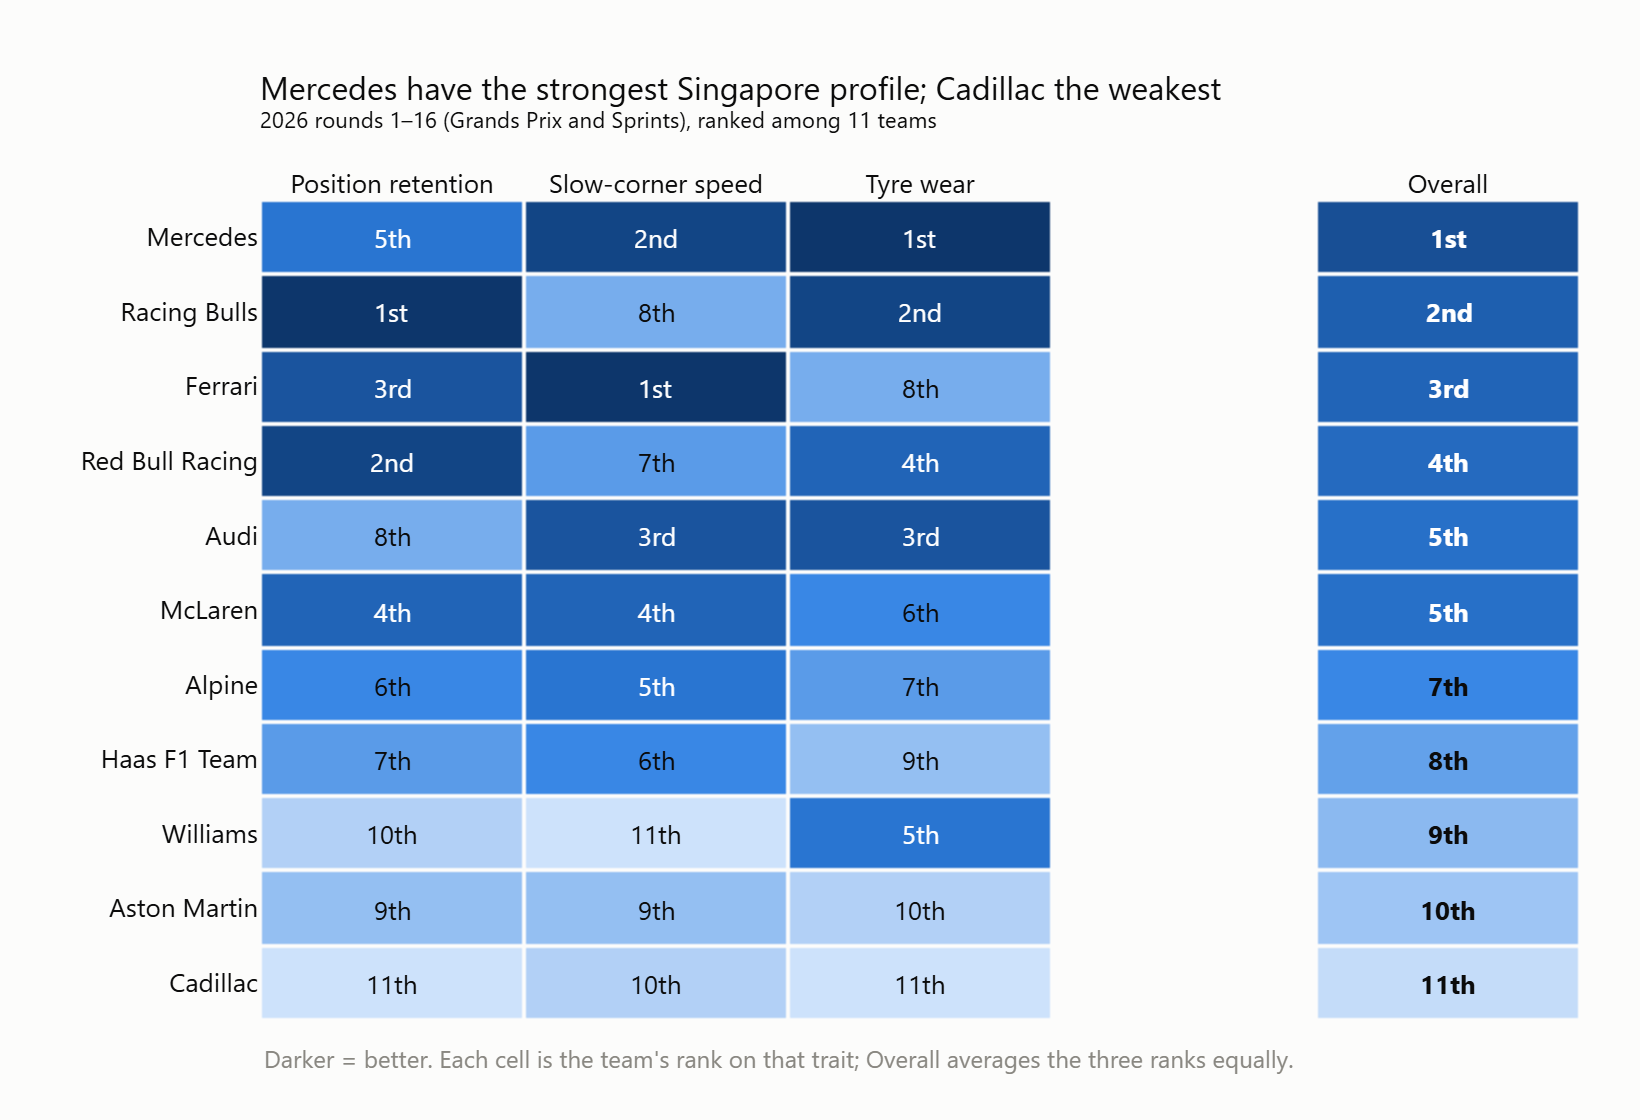
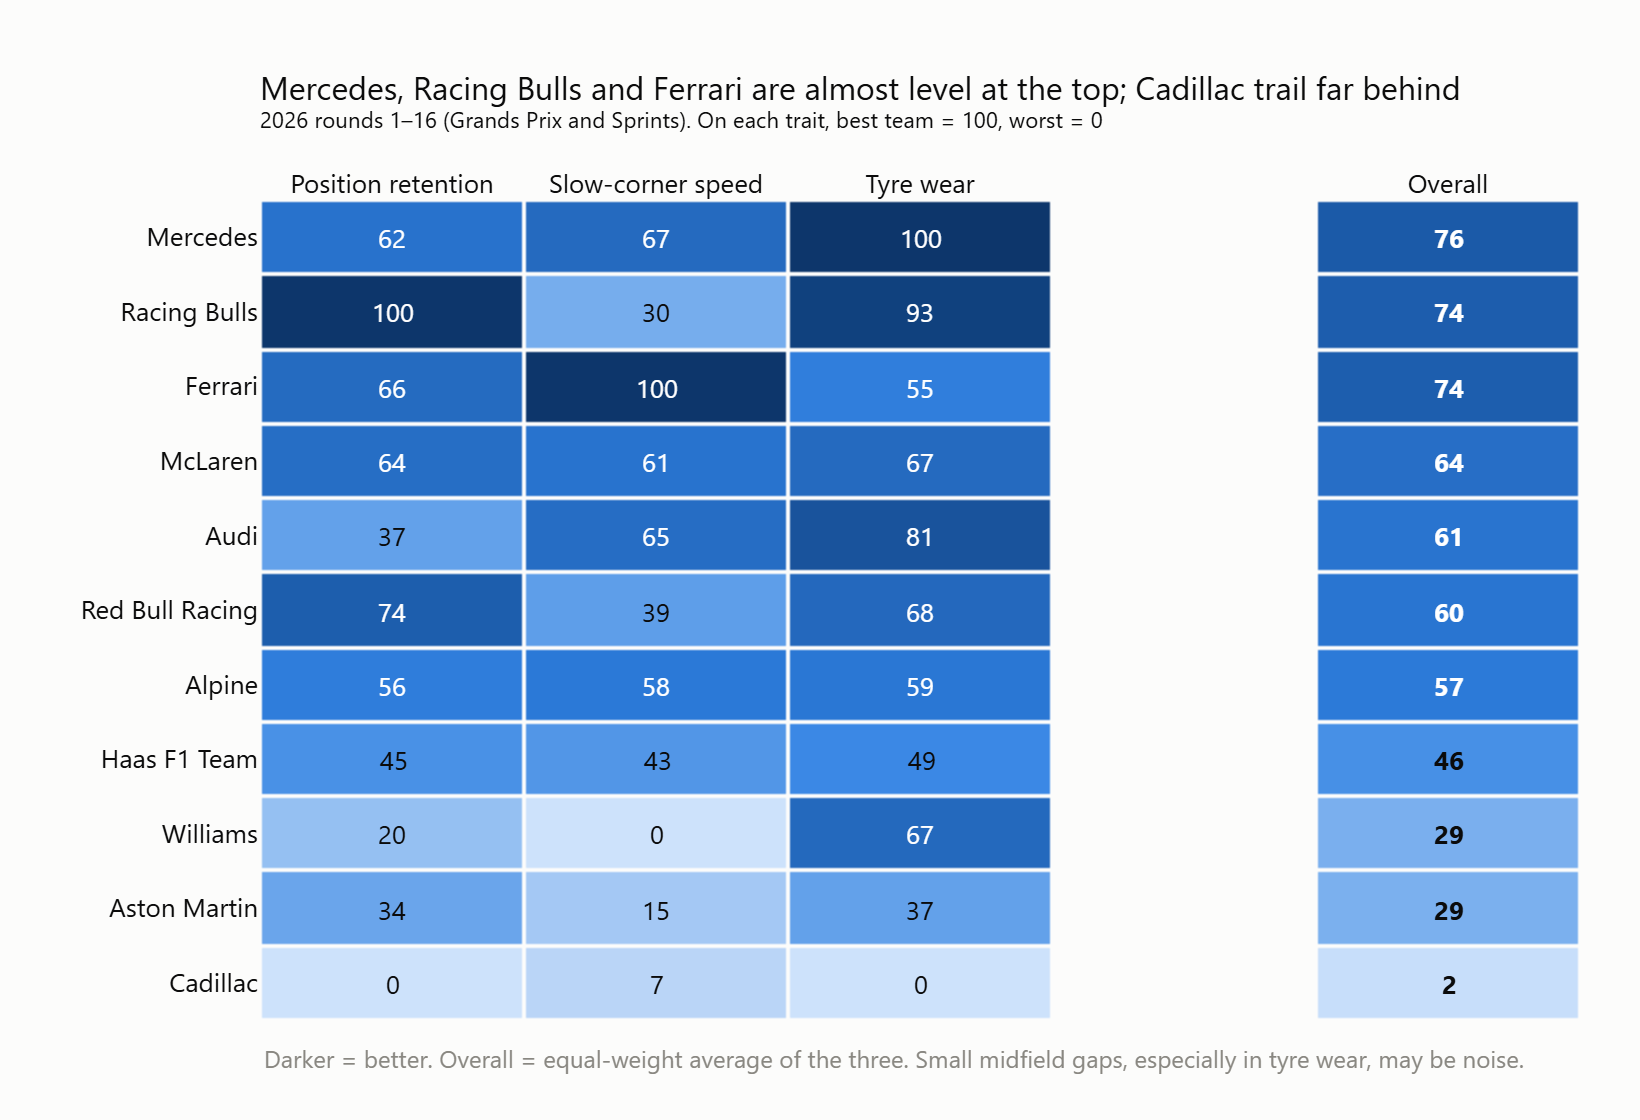
Switch scoring to min-max; update charts and METHOD

diff --git a/scripts/charts.py b/scripts/charts.py
@@ -1,6 +1,6 @@
 """The two published charts, built from outputs/scores.csv:
-  outputs/heatmap.{html,png}        teams x traits, cell shade = rank-based score
-  outputs/team_profiles.{html,png}  each team's rank on the three traits
+  outputs/heatmap.{html,png}        teams x traits, min-max score in each cell
+  outputs/team_profiles.{html,png}  each team's score on the three traits
 
 Usage: python scripts/score.py && python scripts/charts.py
 """
@@ -23,7 +23,7 @@ SERIES = {"Position retention": ("#2a78d6", "circle"),   # categorical slots 1-3
           "Tyre wear": ("#1baf7a", "square")}            # secondary encoding
 INK, INK_2, MUTED, GRID, AXIS, SURFACE = "#0b0b0b", "#52514e", "#898781", "#e1e0d9", "#c3c2b7", "#fcfcfb"
 FONT = 'system-ui, -apple-system, "Segoe UI", sans-serif'
-SUBTITLE = "2026 rounds 1–16 (Grands Prix and Sprints), ranked among 11 teams"
+SUBTITLE = "2026 rounds 1–16 (Grands Prix and Sprints). On each trait, best team = 100, worst = 0"
 
 
 def ordinal(n):
@@ -50,15 +50,15 @@ def heatmap(df):
                 zr.append(None); tr.append(""); hr.append("")
             elif c == "Overall":
                 zr.append(df.at[t, "Overall score"])
-                tr.append(f"<b>{ordinal(int(df.at[t, 'Overall rank']))}</b>")
-                hr.append(f"{t}<br>Overall: {ordinal(int(df.at[t, 'Overall rank']))}, "
-                          f"score {df.at[t, 'Overall score']:.0f} / 100")
+                tr.append(f"<b>{df.at[t, 'Overall score']:.0f}</b>")
+                hr.append(f"{t}<br>Overall: {df.at[t, 'Overall score']:.0f} / 100 "
+                          f"({ordinal(int(df.at[t, 'Overall rank']))})")
             else:
                 zr.append(df.at[t, f"{c} score"])
-                tr.append(ordinal(int(df.at[t, f"{c} rank"])))
-                hr.append(f"{t}<br>{c}: {ordinal(int(df.at[t, f'{c} rank']))}<br>"
+                tr.append(f"{df.at[t, f'{c} score']:.0f}")
+                hr.append(f"{t}<br>{c}: {df.at[t, f'{c} score']:.0f} / 100 "
+                          f"({ordinal(int(df.at[t, f'{c} rank']))})<br>"
                           f"{FMT[c].format(df.at[t, f'{c} raw'])} {UNITS[c]}")
-            pass
         z.append(zr); text.append(tr); hover.append(hr)
     n = len(BLUE_RAMP) - 1
     fig = go.Figure(go.Heatmap(
@@ -75,11 +75,11 @@ def heatmap(df):
                 fig.add_annotation(x=c, y=t, text=text[i][j], showarrow=False,
                                    font=dict(size=13, color="#ffffff" if v >= 55 else INK))
     fig.update_traces(texttemplate=None)
-    base_layout(fig, "Mercedes have the strongest Singapore profile; Cadillac the weakest", 560)
+    base_layout(fig, "Mercedes, Racing Bulls and Ferrari are almost level at the top; Cadillac trail far behind", 560)
     fig.update_xaxes(side="top", tickfont=dict(color=INK, size=13), showgrid=False)
     fig.update_yaxes(autorange="reversed", tickfont=dict(color=INK, size=13), showgrid=False)
-    fig.add_annotation(text="Darker = better. Each cell is the team's rank on that trait; "
-                            "Overall averages the three ranks equally.",
+    fig.add_annotation(text="Darker = better. Overall = equal-weight average of the three. "
+                            "Small midfield gaps, especially in tyre wear, may be noise.",
                        xref="paper", yref="paper", x=0, y=-0.07, showarrow=False, xanchor="left",
                        font=dict(color=MUTED, size=12))
     return fig
@@ -90,22 +90,24 @@ def team_profiles(df):
     ys = list(range(len(teams)))
     offset = {c: d for c, d in zip(TRAITS, (-0.27, 0, 0.27))}  # dodge so tied ranks don't hide each other
     fig = go.Figure()
-    # a hairline per team spanning its best to worst trait rank: long line = uneven profile
+    # a hairline per team spanning its weakest to strongest trait: long line = uneven profile
     for y, t in zip(ys, teams):
-        ranks = [df.at[t, f"{c} rank"] for c in TRAITS]
-        fig.add_trace(go.Scatter(x=[min(ranks), max(ranks)], y=[y, y], mode="lines",
+        vals = [df.at[t, f"{c} score"] for c in TRAITS]
+        fig.add_trace(go.Scatter(x=[min(vals), max(vals)], y=[y, y], mode="lines",
                                  line=dict(color=AXIS, width=2), hoverinfo="skip", showlegend=False))
     for c in TRAITS:
         color, symbol = SERIES[c]
         fig.add_trace(go.Scatter(
-            x=df[f"{c} rank"], y=[y + offset[c] for y in ys], mode="markers", name=c,
+            x=df[f"{c} score"], y=[y + offset[c] for y in ys], mode="markers", name=c,
             marker=dict(size=11, color=color, symbol=symbol, line=dict(width=2, color=SURFACE)),
-            customdata=[[t, FMT[c].format(df.at[t, f"{c} raw"])] for t in teams],
-            hovertemplate=f"%{{customdata[0]}}<br>{c}: rank %{{x}}<br>%{{customdata[1]}} {UNITS[c]}<extra></extra>"))
-    base_layout(fig, "Only Mercedes rank in the top 5 on all three traits", 680)
+            customdata=[[t, FMT[c].format(df.at[t, f"{c} raw"]), ordinal(int(df.at[t, f"{c} rank"]))]
+                        for t in teams],
+            hovertemplate=f"%{{customdata[0]}}<br>{c}: %{{x:.0f}} / 100 (%{{customdata[2]}})"
+                          f"<br>%{{customdata[1]}} {UNITS[c]}<extra></extra>"))
+    base_layout(fig, "Most leading teams have one weak trait; Mercedes and McLaren are the all-rounders", 680)
     fig.update_layout(legend=dict(orientation="h", yanchor="bottom", y=1.0, x=0, font=dict(color=INK_2)),
                       margin=dict(t=120))
-    fig.update_xaxes(title="Rank among 11 teams (1 = best)", range=[0.5, 11.5], dtick=1,
+    fig.update_xaxes(title="Score (0 = worst team on that trait, 100 = best)", range=[-4, 104], dtick=20,
                      gridcolor=GRID, linecolor=AXIS, zeroline=False)
     fig.update_yaxes(autorange="reversed", tickfont=dict(color=INK, size=13), showgrid=False,
                      tickmode="array", tickvals=ys, ticktext=teams, zeroline=False)

diff --git a/scripts/score.py b/scripts/score.py
@@ -1,6 +1,6 @@
-"""Team scores: each metric's raw value, rank (1 = best) and rank-based score
-(1st = 100 ... 11th = 0), plus the overall score (equal-weight mean of the
-three). Writes outputs/scores.csv.
+"""Team scores: each metric's raw value, rank (1 = best) and min-max score
+(best team = 100, worst = 0, others in proportion), plus the overall score
+(equal-weight mean of the three). Writes outputs/scores.csv.
 
 Usage: python scripts/score.py
 """
@@ -31,9 +31,10 @@ def scores():
     for name, get in METRICS.items():
         raw, higher_better = get()
         rank = raw.rank(ascending=not higher_better, method="min").astype(int)
+        oriented = raw if higher_better else -raw
         cols[(name, "raw")] = raw
         cols[(name, "rank")] = rank
-        cols[(name, "score")] = 100 * (len(raw) - rank) / (len(raw) - 1)
+        cols[(name, "score")] = 100 * (oriented - oriented.min()) / (oriented.max() - oriented.min())
     df = pd.DataFrame(cols)
     df[("Overall", "score")] = df.xs("score", axis=1, level=1).mean(axis=1)
     df[("Overall", "rank")] = df[("Overall", "score")].rank(ascending=False, method="min").astype(int)
@@ -47,7 +48,7 @@ def main():
     flat.index.name = "Team"
     OUT.mkdir(exist_ok=True)
     flat.round(4).to_csv(OUT / "scores.csv")
-    show = df.xs("rank", axis=1, level=1).join(df[("Overall", "score")].rename("Overall score").round(1))
+    show = df.xs("score", axis=1, level=1).round(0).astype(int).join(df[("Overall", "rank")].rename("Overall rank"))
     print(show.to_string())
 
 

diff --git a/METHOD.md b/METHOD.md
@@ -111,15 +111,18 @@ As a sensitivity check, the scores were recomputed without Sprints:
 
 ## Scoring
 
-**Rank-based.** On each metric, teams are ranked 1st to 11th, and the rank is converted to a score: 1st = 100, 2nd = 90, ... 11th = 0. Tied teams share the higher rank. The **overall score** is the equal-weight mean of the three metric scores, so it is the average rank on a 0–100 scale.
+**Min-max.** On each metric, the best team scores 100, the worst scores 0, and every other team is placed in proportion to where its raw value falls between them. The **overall score** is the equal-weight mean of the three metric scores.
 
-Why rank-based: in racing, finishing order is what counts, and ranks are the easiest to explain. The cost is that the size of the gaps is lost, so a narrow 2nd looks the same as a distant 2nd.
+Why min-max: it is as easy to explain as ranks, and it keeps the size of the gaps. With these data, ranks would show Mercedes 10 points clear of 2nd, while min-max shows the top three are almost level (76, 74, 74), which is what the raw measurements say.
 
-Two other options were compared and rejected:
-- **Min-max** (best = 100, worst = 0, proportional in between): stretches small, mostly-noise gaps into large score differences.
-- **Uncertainty-aware shrinkage** (pull each team toward the average in proportion to its measurement noise): most statistically careful, but harder to explain.
+**Limitation:** scores are relative to this season's best and worst team. A single extreme team squeezes the others together; for example, Cadillac's tyre wear is far worse than anyone else's, pushing most teams into the 50–100 range on that metric. Small midfield gaps, especially in tyre wear, may be measurement noise rather than real differences.
 
-All three options give the same top 3 (Mercedes, Racing Bulls, Ferrari, order varies) and the same bottom 3 (Williams, Aston Martin, Cadillac). The middle five shuffle between options.
+Three other options were compared and rejected:
+- **Rank-based** (1st = 100, 2nd = 90, ...): hides gap size.
+- **Z-score** (distance from the average team in standard deviations): gives the same order as min-max but is harder for general readers.
+- **Uncertainty-aware shrinkage** (pull each team toward the average in proportion to its measurement noise): most statistically careful, but hardest to explain.
+
+All options give the same top 3 (Mercedes, Racing Bulls, Ferrari, order varies) and the same bottom 3 (Williams, Aston Martin, Cadillac). Between rank-based and min-max, only Red Bull and McLaren swap places (4th vs 6th).
 
 **How reliable each metric is.** This is the estimated share of the between-team spread that is real signal rather than measurement noise:
 
@@ -163,4 +166,4 @@ With only 11 teams this is a directional check: |ρ| needs to be about 0.6 befor
 
 - [x] Retention: grid-adjusted places gained (confirmed Oct 6). Chosen over net and places-lost, whose team rankings correlate 0.87 and 0.86 (Spearman) with average grid position
 - [x] Slow-corner speed: fastest lap from Q1 / SQ1 only (confirmed Oct 6). Rank correlation with the whole-session alternative is 0.82; Audi and Red Bull move most
-- [x] Scoring: rank-based, equal weights (confirmed Oct 6)
+- [x] Scoring: min-max, equal weights (confirmed Oct 6, replacing an earlier rank-based choice)
